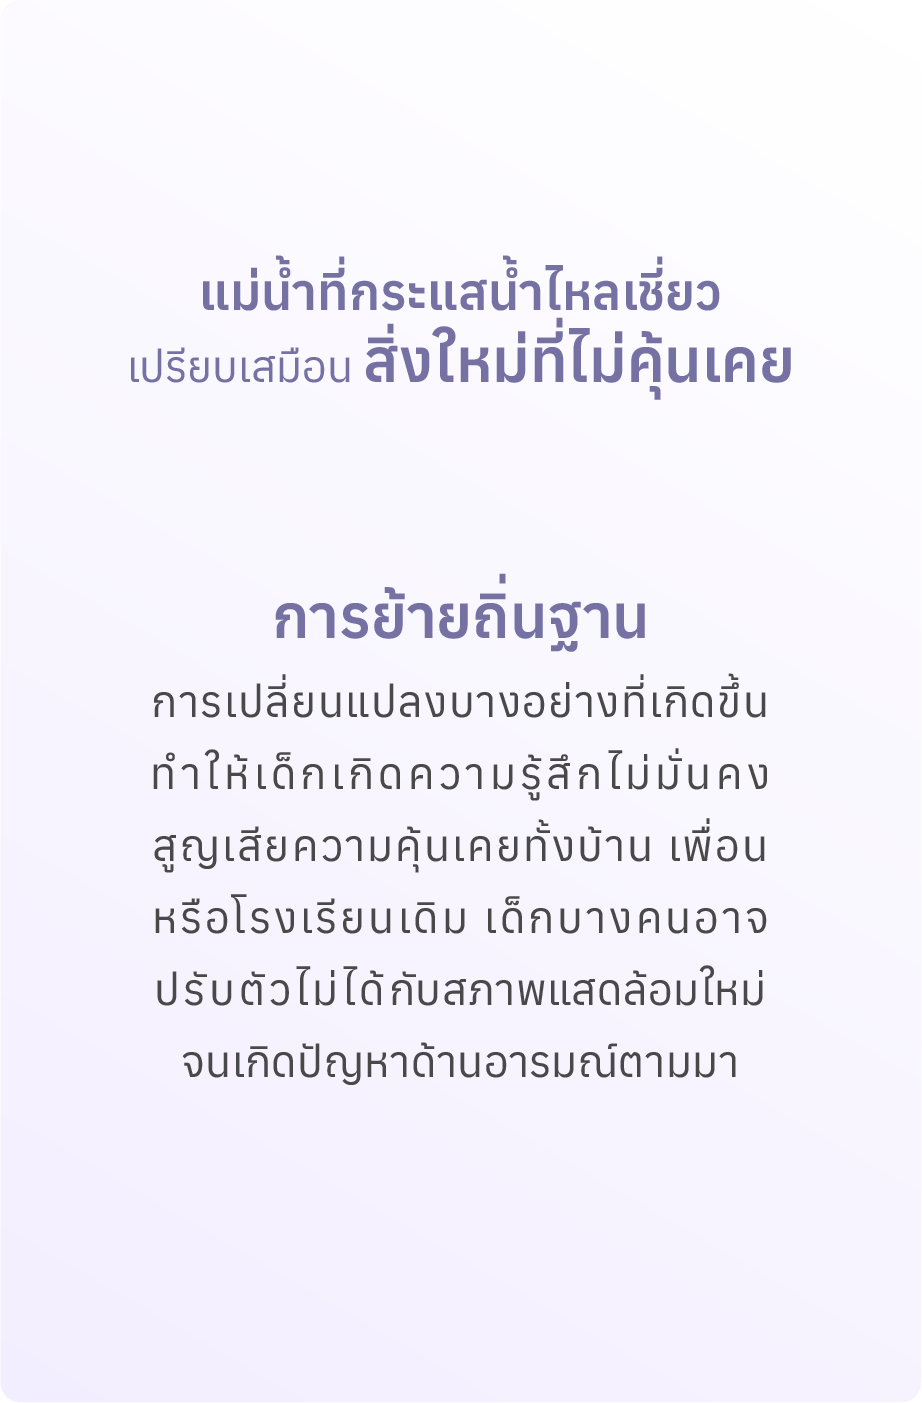
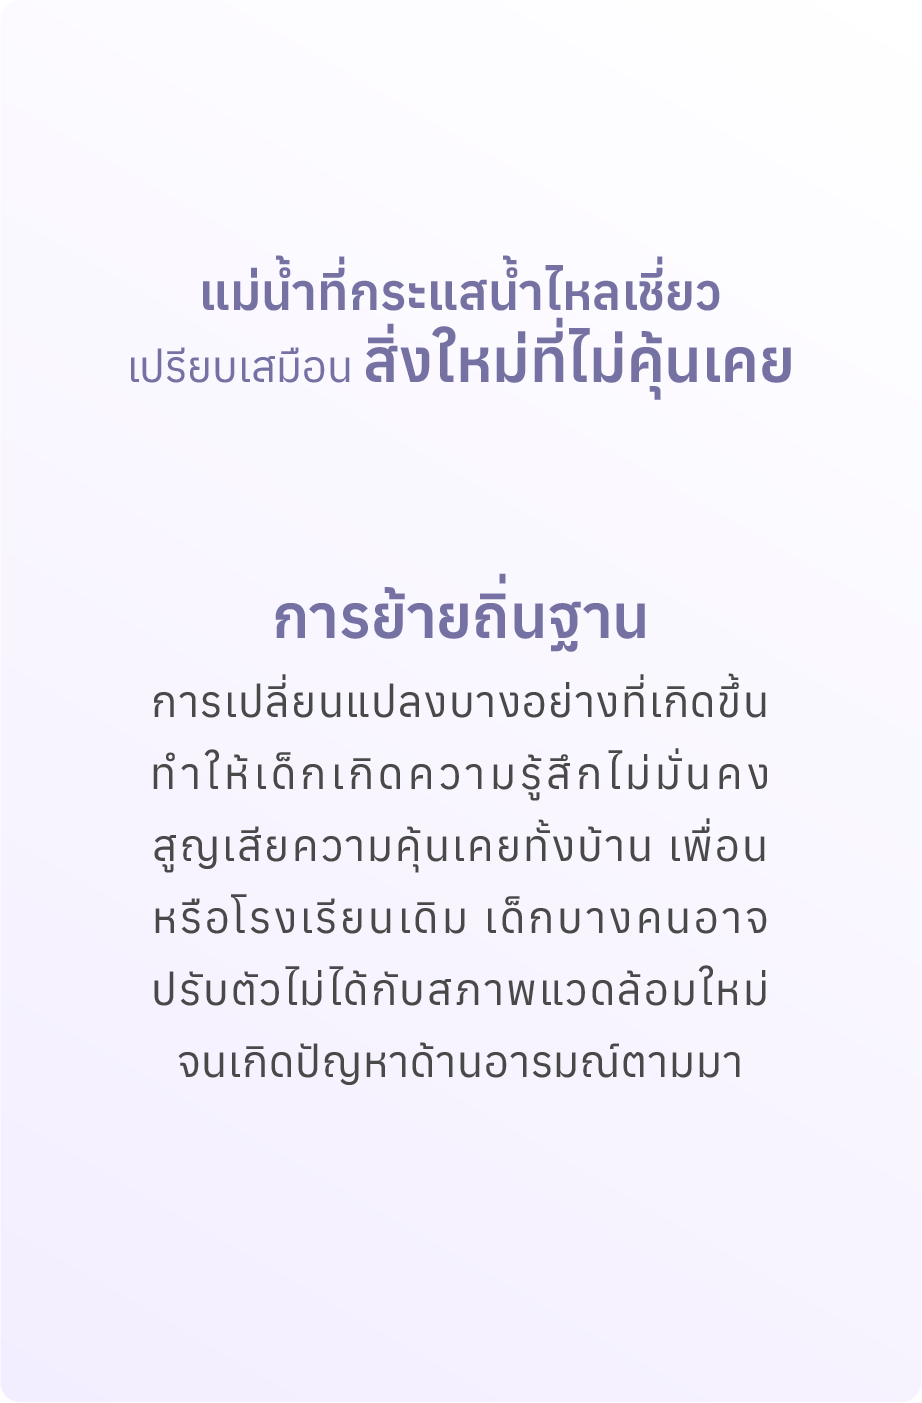
update

Changed region(s): [[0.1518, 0.6743, 0.82, 0.7662], [0.7592, 0.6743, 0.7896, 0.7049]]

diff --git a/littlemind_css.css b/littlemind_css.css
@@ -6706,22 +6706,22 @@ height: 45px;
     position: absolute;
     right: 212px;
     width: 46%;
-    bottom: 27px;
+    bottom: 26px;
     z-index: 1;
 }
   .result2-cloud-r{
     position: absolute;
-    right: 2px;
+    right: 0px;
     width: 53%;
-    bottom: 20px;
+    bottom: 19px;
     z-index: 1;
   }
   .result3-cloud{
     position: absolute;
     width: 100%;
-    bottom: 100px;
+    bottom: 45px;
     z-index: 1;
-    height: 47%;
+    /* height: 47%; */
 
   }
   .result4-cloud{
@@ -6729,7 +6729,7 @@ height: 45px;
     width: 100%;
     bottom: 27px;
     z-index: 2;
-    height: 47%;
+    /* height: 100%; */
   }
   .result5-cloud {
     position: absolute;

diff --git a/index.html b/index.html
@@ -18,7 +18,7 @@
     <!-- nice start -->
    
     <!-- home page1  - 3 start -->
-     <div style="position: absolute; top: 1%; left: 2%; font-size: 15px; color: red; z-index: 5;"> Versions edit 1.3.5</div>
+     <div style="position: absolute; top: 1%; left: 2%; font-size: 15px; color: red; z-index: 5;"> Versions edit 1.3.6</div>
      <div class="homepage overlayto_page01  fadebgp2">
      <div style="position: relative;">
          <!-- ปุ่ม Burger -->
